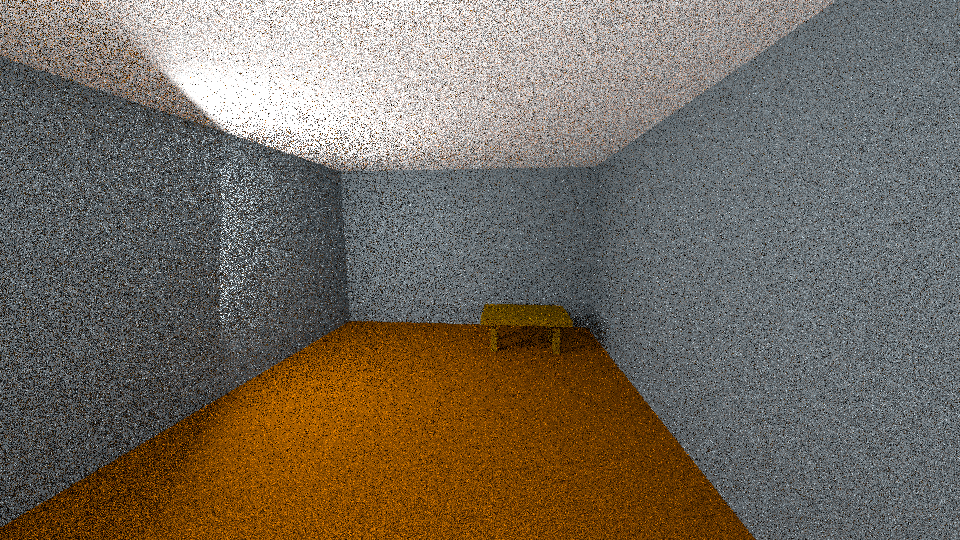
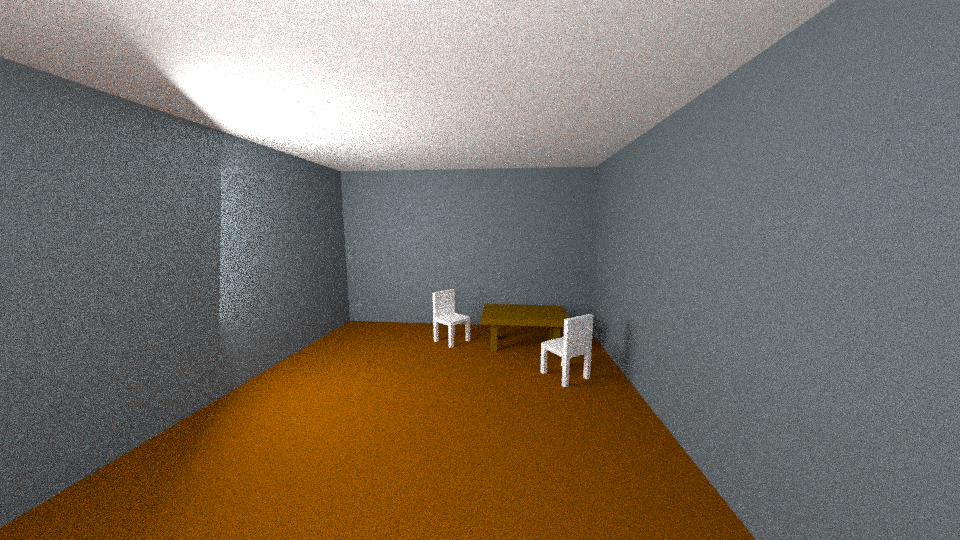
chairs

diff --git a/room.py b/room.py
@@ -37,7 +37,7 @@ add_lamp(bpyscene, 'LAMP2', 'AREA', color=(1, 1, 1), size=1.5, location=(length/
 list_cameras = []
 # bpy.ops.object.camera_add(view_align=True, enter_editmode=False, location=(0.2, 13, 16), rotation=(1.43, 0, -1.48), )
 cam1 = add_camera(bpyscene, 'CAMERA1', 10, location=(0.2, 1.3, 1.6), rotation=(1.43, 0, -1.48))
-cam2 = add_camera(bpyscene, 'CAMERA2', 10, location=(2.2, 2.2, 1.6), rotation=(1.40, 0, -1.96))
+cam2 = add_camera(bpyscene, 'CAMERA2', 10, location=(2.2, 2.2, 0.74), rotation=(1.57, 0, -2.05))
 list_cameras.append(cam1.name)
 list_cameras.append(cam2.name)
 
@@ -47,8 +47,8 @@ walls_color = create_material('wild_grey', color=(0.174647, 0.212231, 0.234551),
 for i in range(1,5):
     set_material(bpyscene.objects['Wall ' + str(i)], walls_color)
 #ceiling color
-ceiling_color = create_material('white', color=(1, 1, 1), alpha=1)
-set_material(bpyscene.objects['Ceiling'], ceiling_color)
+white_material = create_material('white', color=(1, 1, 1), alpha=1)
+set_material(bpyscene.objects['Ceiling'], white_material)
 
 # floor color
 floor_color = create_material(('brown'), color=(0.235, 0.069, 0), alpha=1)
@@ -59,10 +59,17 @@ create_table('Table', bpyscene, location=(3.8, 0.5, 0.4), scale=(0.4, 0.4, 0.4))
 table_color = create_material(('dark brwon'), color=(0.2, 0.1, 0), alpha=1)
 set_material(bpyscene.objects['Table'], table_color)
 
+# create chairs and set colors
+create_chair('Chair 1', bpyscene, location=(4.5, 2.1, 0.3), scale=(0.4, 0.4, 0.4), rotation=(0, 0, -3.8))
+create_chair('Chair 2', bpyscene, location=(3.1, 0.7, 0.3), scale=(0.4, 0.4, 0.4), rotation=(0, 0, -0.95))
+set_material(bpyscene.objects['Chair 1'], white_material)
+set_material(bpyscene.objects['Chair 2'], white_material)
+
+
 # Render settings
 bpyscene.render.image_settings.color_mode = 'RGBA'
 bpyscene.render.image_settings.file_format = 'PNG'
-bpyscene.cycles.samples = 2
+bpyscene.cycles.samples = 10
 # render scene
 for cam in list_cameras:
     # set CAMERAX as a active camera for render

diff --git a/room_objects.py b/room_objects.py
@@ -1,6 +1,7 @@
 import bpy
 from figures import *
 
+
 def create_room(length, width, height, scene):
     """Creates a room with given dimensions and returns 6 BlendData objects"""
     # Room vertices
@@ -21,6 +22,7 @@ def create_room(length, width, height, scene):
     scene.objects.link(wall_2)
     scene.objects.link(wall_3)
     scene.objects.link(wall_4)
+
 
 def create_table(name, scene, location, scale):
     """Create simple table"""
@@ -58,3 +60,51 @@ def create_table(name, scene, location, scale):
     table.scale = scale
     # set table location
     table.location = location
+
+
+def create_chair(name, scene, location, scale, rotation):
+    """Creates simple chair"""
+    # deselect all object on the sceene
+    bpy.ops.object.select_all(action='DESELECT')
+
+    # creates legs
+    legs = []
+    for i in range(1, 5):
+        legs.append(create_cuboid("Leg " + str(i), 0.12, 0.12, 0.8))
+
+    # set up legs location
+    x, y = 0, 0
+    for leg in legs:
+        leg.location = (x * 0.8, y * 0.8, 0)
+        if y == 0:
+            y += 1
+        elif y == 1:
+            x = 1
+            y = 0
+
+    # backrest
+    backrest = create_cuboid('Backrest', 0.92, 0.12, 1)
+    backrest.location = (0, 0, 0.8)
+
+    # chair
+    chair = create_cuboid(name, 0.92, 0.92, 0.12)
+    chair.location = (0, 0, 0.8)
+
+    # join all parts together
+    for leg in legs:
+        scene.objects.link(leg)
+        leg.select = True
+
+    scene.objects.link(backrest)
+    backrest.select = True
+    scene.objects.link(chair)
+    chair.select = True
+    scene.objects.active = chair
+    bpy.ops.object.join()
+
+    # set chair location on the scne
+    chair.location = location
+    # set scale
+    chair.scale = scale
+    # set rotation
+    chair.rotation_euler = rotation
